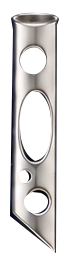
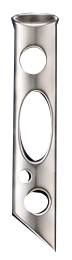
Refine tray photography and catalog review

Changed region(s): [[0.1389, 0.0615, 0.5556, 0.9231], [0.5556, 0.9231, 0.6944, 0.9538], [0.6944, 0.9538, 0.7778, 0.9846]]

diff --git a/components/admin/CatalogEditor.tsx b/components/admin/CatalogEditor.tsx
@@ -4,9 +4,10 @@ import { useEffect, useMemo, useRef, useState } from "react";
 import Image from "next/image";
 import { galleryRenders, isReferenceOnlyGalleryPhoto, type GalleryRender } from "@/lib/constants/gallery-renders";
 import { galleryTrayCutout } from "@/lib/constants/gallery-tray-cutouts";
-import { catalogCategories, resolveCatalogSelection } from "@/lib/constants/catalog";
+import { catalogCategories, normalizeSearch, resolveCatalogSelection } from "@/lib/constants/catalog";
 import type { CatalogProductInput } from "@/lib/catalog/product-input";
 import { toCatalogForm } from "@/lib/catalog/editor-form";
+import { isWithheldGalleryPhoto } from "@/lib/catalog/gallery-product-link";
 import { dossierFields, incompleteDossierFields, isDossierField, readDossierField, updateDossierField } from "@/lib/catalog/dossier-fields";
 import { appendCatalogPhotoView, draftCatalogFormFromPhoto, reviewCatalogPhotos } from "@/lib/catalog/photo-draft";
 import type { RoomPlacement } from "@/lib/catalog/room-placement";
@@ -21,6 +22,7 @@ const blank = (): CatalogProductInput => ({ slug: "", revision: 0, name: "", cat
 const fieldClass = "w-full rounded-md border border-silver bg-ivory px-3 py-2 text-sm text-graphite outline-none focus-visible:border-sapphire focus-visible:ring-2 focus-visible:ring-sapphire/30";
 const labelClass = "block text-sm leading-7 text-graphite";
 const number = new Intl.NumberFormat("fa-IR");
+const statuses = { published: "منتشرشده", review: "در بازبینی", archived: "بایگانی" } as const;
 
 function hasVisibleCutout(image: HTMLImageElement): boolean {
   const canvas = document.createElement("canvas");
@@ -49,6 +51,8 @@ export function CatalogEditor() {
   const [form, setForm] = useState<CatalogProductInput>(blank);
   const [selected, setSelected] = useState("");
   const [photoCategory, setPhotoCategory] = useState("");
+  const [catalogQuery, setCatalogQuery] = useState("");
+  const [catalogStatus, setCatalogStatus] = useState("");
   const [onlyIncompleteDossiers, setOnlyIncompleteDossiers] = useState(false);
   const [trayPreview, setTrayPreview] = useState<{ path: string; transparent: boolean } | null>(null);
   const [loading, setLoading] = useState(true);
@@ -72,7 +76,12 @@ export function CatalogEditor() {
   const savedRow = rows.find((item) => item.slug === selected);
   const dossierGaps = useMemo(() => new Map(rows.map((row) => [row.slug, incompleteDossierFields(row.details).length])), [rows]);
   const incompleteRows = rows.filter((row) => row.status !== "archived" && (dossierGaps.get(row.slug) ?? 0) > 0);
-  const visibleRows = onlyIncompleteDossiers ? incompleteRows : rows;
+  const queryTerms = normalizeSearch(catalogQuery).split(" ").filter(Boolean);
+  const visibleRows = (onlyIncompleteDossiers ? incompleteRows : rows).filter((row) => {
+    if (catalogStatus && row.status !== catalogStatus) return false;
+    const text = normalizeSearch(`${row.name} ${row.slug} ${row.category_label}`);
+    return queryTerms.every((term) => text.includes(term));
+  });
   const formGaps = incompleteDossierFields(form.details);
   const referenceCover = isReferenceOnlyGalleryPhoto(form.image_path);
   const trayPath = form.stand_image_path?.startsWith("/images/ornova/") && !isReferenceOnlyGalleryPhoto(form.stand_image_path) ? form.stand_image_path : null;
@@ -181,14 +190,26 @@ export function CatalogEditor() {
         <input type="checkbox" className="mt-1" checked={onlyIncompleteDossiers} onChange={(event) => setOnlyIncompleteDossiers(event.target.checked)} />
         فقط شناسنامههای در انتظار تکمیل ({number.format(incompleteRows.length)})
       </label>}
+      {catalogReadReady && <div className="mb-4 grid gap-2">
+        <label className={labelClass}>نام یا کد اثر
+          <input type="search" className={fieldClass} value={catalogQuery} onChange={(event) => setCatalogQuery(event.target.value)} />
+        </label>
+        <label className={labelClass}>وضعیت انتشار
+          <select className={fieldClass} value={catalogStatus} onChange={(event) => setCatalogStatus(event.target.value)}>
+            <option value="">همهٔ وضعیتها</option>
+            {Object.entries(statuses).map(([value, label]) => <option key={value} value={value}>{label}</option>)}
+          </select>
+        </label>
+      </div>}
       {loading ? <p role="status">در حال خواندن کاتالوگ…</p> : visibleRows.length === 0
-        ? <p className="text-sm">{onlyIncompleteDossiers ? "شناسنامهای در انتظار تکمیل نیست." : "هنوز اثری ثبت نشده است."}</p>
+        ? <p className="text-sm">{rows.length ? "اثری مطابق فیلترها پیدا نشد." : "هنوز اثری ثبت نشده است."}</p>
         : <ul className="space-y-2">{visibleRows.map((row) => {
           const gaps = dossierGaps.get(row.slug) ?? 0;
           return <li key={row.slug}>
             <button type="button" disabled={busy} onClick={() => select(row.slug)} aria-current={selected === row.slug ? "true" : undefined} className="w-full rounded-md border border-silver bg-ivory p-3 text-right text-sm hover:border-sapphire/50 aria-current:border-sapphire disabled:opacity-50">
               <strong className="block font-medium">{row.name}</strong>
-              <span className="mt-1 block text-xs text-graphite/65">{row.status === "published" ? "منتشرشده" : row.status === "archived" ? "بایگانی" : "در بازبینی"} · نسخهٔ {number.format(row.revision)}</span>
+              <span className="mt-1 block text-xs text-graphite/65">{statuses[row.status]} · نسخهٔ {number.format(row.revision)}</span>
+              {isWithheldGalleryPhoto(row.stand_image_path) && <span className="mt-1 block text-xs text-sapphire">عکس فعلی از سینی کنار گذاشته شده</span>}
               {gaps > 0 && row.status !== "archived" && <span className="mt-1 block text-xs text-sapphire">{number.format(gaps)} فیلد شناسنامه در انتظار تکمیل</span>}
             </button>
           </li>;

diff --git a/components/ornova/GalleryShowcaseConcept.module.css b/components/ornova/GalleryShowcaseConcept.module.css
@@ -103,8 +103,7 @@
   visibility: hidden;
   opacity: 0;
   padding: .45rem .65rem .4rem;
-  border: 1px solid #ab967b;
-  border-top-color: #f4e7ca;
+  border: 0;
   border-radius: 2px 3px 3px 2px;
   background: #efe4cc url("/images/ornova/gallery/review/ornova-dossier-cotton-paper-v1.webp") center / cover;
   box-shadow: 1px 3px 7px #43291655;
@@ -117,9 +116,7 @@
   transform: translateY(-50%);
 }
 .shelfTooltip small { color: #615746; font-size: .69rem; font-weight: 400; }
-.shelfTooltip::before, .shelfTooltip::after { position: absolute; left: 100%; width: .65rem; content: ""; }
-.shelfTooltip::before { top: 50%; border-top: 1px solid #896f51; }
-.shelfTooltip::after { inset-block: -.25rem; }
+.shelfTooltip::after { position: absolute; inset-block: -.25rem; left: 100%; width: .65rem; content: ""; }
 .shelf[data-tooltip-open] .shelfTooltip {
   visibility: visible;
   opacity: 1;
@@ -133,13 +130,18 @@
 .book { top: 73.5%; left: 84.5%; width: 10.5%; height: 5%; }
 .phone { top: 78%; left: 1.5%; width: 11%; height: 18%; }
 .register { top: 78%; left: 13%; width: 9%; height: 17%; }
-.roomView :is(.door, .book, .phone, .register)[data-guide-current] {
-  background-color: #fff1d01a;
-  box-shadow: 0 0 0 1px #fff0d3eb, 0 0 .7rem #ffd99299;
-}
-.roomView :is(.book, .phone, .register)[data-guide-current] { border-radius: .25rem; }
 .shelfTrigger[data-guide-current] .shelfSign { filter: brightness(1.22) drop-shadow(0 0 3px #fff0cc); }
-.door:focus-visible, .shelfTrigger:focus-visible, .book:focus-visible, .phone:focus-visible, .register:focus-visible { outline: 2px solid #355a82; outline-offset: -2px; }
+.roomView :is(.door, .shelfTrigger, .book, .phone, .register):focus-visible { outline: 2px solid transparent; }
+.roomView :is(.door, .shelfTrigger, .book, .phone, .register):focus-visible::after {
+  position: absolute;
+  inset: .18rem .18rem auto auto;
+  width: .45rem;
+  aspect-ratio: 1;
+  border-radius: 50%;
+  background: #fff3ce;
+  box-shadow: 0 0 0 2px #463125;
+  content: "";
+}
 .tableView { position: absolute; z-index: 1; inset: 0; isolation: isolate; visibility: hidden; opacity: 0; transition: opacity 420ms ease, visibility 420ms; }
 .scene[data-table-open] .tableView { visibility: visible; opacity: 1; transition: opacity 420ms ease 560ms; }
 .scene[data-shelf-approach] .tableView {
@@ -167,16 +169,15 @@
 }
 .tableDisplay, .tablePaper { display: grid; justify-items: center; min-width: 0; direction: rtl; }
 .tableDisplay { gap: .7rem; }
-.tableProduct { display: grid; width: 100%; min-height: 0; place-items: center; transform: translateY(clamp(-1.65rem, -2.5cqw, -.5rem)); }
-.archiveCutout { position: relative; width: min(92%, 22rem); height: clamp(5rem, 22cqw, 18.5rem); filter: drop-shadow(1px 2px 1px #040912b0) drop-shadow(3px 3px 4px #050a1857); animation: work-on-table 320ms ease-out both; }
-.archiveCutout img { object-fit: contain; }
-.catalogCutout[data-table-product="sepid-brooch"] img { transform: rotate(-90deg) scale(1.12); filter: none; }
+.tableProduct { display: grid; width: 100%; min-height: 0; place-items: center; }
+.archiveCutout, .catalogCutout { position: relative; filter: drop-shadow(0 1px 1px #050a1866); animation: work-on-table 320ms ease-out both; }
+.archiveCutout { width: min(92%, 22rem); height: clamp(5rem, 22cqw, 18.5rem); }
+.archiveCutout img, .catalogCutout img { object-fit: contain; pointer-events: none; }
 .archiveCutout[data-gallery-product-number="21"] img { transform: scale(.65); }
 .archiveCutout[data-gallery-product-number="22"] img { transform: scale(.86); }
-.catalogCutout { position: relative; width: min(94%, 22rem); height: clamp(5rem, 20cqw, 17rem); filter: drop-shadow(1px 2px 1px #040912b0) drop-shadow(3px 3px 4px #050a1857); animation: work-on-table 320ms ease-out both; }
-.catalogCutout img { object-fit: contain; filter: brightness(1.055); pointer-events: none; }
+.catalogCutout { width: min(94%, 22rem); height: clamp(5rem, 20cqw, 17rem); }
 .catalogCutout[data-table-product="lajvard-shab-ring"] { height: clamp(6.7rem, 25cqw, 21rem); }
-.catalogCutout[data-table-product="lajvard-shab-ring"] img { transform: rotate(-86deg); filter: brightness(1.025); }
+.catalogCutout[data-table-product="lajvard-shab-ring"] img { transform: rotate(-86deg); }
 @keyframes work-on-table {
   from { opacity: 0; }
   to { opacity: 1; }
@@ -346,7 +347,7 @@
     gap: .38rem;
   }
   .tableView .tableDisplay { display: block; min-height: 0; }
-  .tableView .tableProduct { height: 100%; grid-template-rows: minmax(0, 1fr); transform: none; }
+  .tableView .tableProduct { height: 100%; grid-template-rows: minmax(0, 1fr); }
   .tableView :is(.archiveCutout, .catalogCutout, .catalogCutout[data-table-product="lajvard-shab-ring"]) { width: min(100%, 15rem); height: min(100%, 9rem); }
   .tableView .tablePaper {
     align-self: start;
@@ -384,7 +385,6 @@
   .architecture { object-fit: fill; }
   .tableView .tableComposition { inset-block: 19% 27%; }
   .archiveCutout, .catalogCutout, .catalogCutout[data-table-product="lajvard-shab-ring"] { height: min(16cqw, 35svh); }
-  .tableProduct { transform: translateY(-.35rem); }
   .tableView .tablePaper { width: min(100%, 17.5rem); }
   .tableView .dossier { padding: clamp(.45rem, 2svh, .85rem); }
   .dossierHeader { margin-bottom: .25rem; }

diff --git a/lib/constants/gallery-room-samples.ts b/lib/constants/gallery-room-samples.ts
@@ -1,6 +1,6 @@
 import type { CatalogCategoryId } from "./catalog";
 import type { Product } from "./products";
-import { findGalleryProduct } from "../catalog/gallery-product-link";
+import { findGalleryProduct, isPublicGalleryProduct, isWithheldGalleryPhoto } from "../catalog/gallery-product-link";
 import { visibleGalleryRenders, type GalleryRender } from "./gallery-renders";
 import { galleryTrayCutout } from "./gallery-tray-cutouts";
 
@@ -32,7 +32,7 @@ const measuredBounds: Record<string, readonly [number, number, number, number]> 
 };
 
 const firstWork: Partial<Record<CatalogCategoryId, string>> = {
-  rings: "05", "brooches-pins": "01", earrings: "03",
+  rings: "05", "brooches-pins": "07", earrings: "03",
   "jewelry-sets": "40", pendants: "08", bracelets: "45",
 };
 
@@ -56,7 +56,7 @@ export type GalleryRoomSample = (typeof galleryRoomSamples)[number] & { productS
 export const galleryRoomSamplesByCategory = Object.fromEntries(
   (["rings", "brooches-pins", "earrings", "jewelry-sets", "pendants", "bracelets"] as const).map((categoryId) => [
     categoryId,
-    galleryRoomSamples.filter((sample) => sample.categoryId === categoryId)
+    galleryRoomSamples.filter((sample) => sample.categoryId === categoryId && !isWithheldGalleryPhoto(sample.src))
       .sort((a, b) => Number(b.number === firstWork[categoryId]) - Number(a.number === firstWork[categoryId])),
   ]),
 ) as Record<(typeof galleryRoomSamples)[number]["categoryId"], typeof galleryRoomSamples>;
@@ -69,7 +69,7 @@ export function roomSamplesWithCatalog(products: readonly Product[]): Record<str
   for (const product of [...products].sort((a, b) => a.slug.localeCompare(b.slug))) {
     const placement = product.roomPlacement;
     const samples = result[product.categoryId];
-    if (!samples || product.publicationStatus !== "published" || !product.galleryPlacementVerified || !placement
+    if (!samples || !isPublicGalleryProduct(product) || !placement
       || !product.standImage || placement.src !== product.standImage || samples.some((sample) => sample.src === placement.src)) continue;
     samples.push({ number: `catalog:${product.slug}`, title: product.name, categoryId: product.categoryId,
       src: placement.src, image: placement.image, bounds: placement.bounds, productSlug: product.slug });
@@ -109,6 +109,7 @@ export function galleryShowcaseEntries(products: readonly Product[]): GallerySho
 }
 
 export function findGalleryShowcasePhoto(entries: GalleryShowcaseEntries, photo: GalleryShowcasePhoto) {
+  if (isWithheldGalleryPhoto(photo.src)) return null;
   const sample = galleryRoomSamples.find((source) =>
     source.number === photo.number && source.src === photo.src && source.categoryId === photo.categoryId,
   );
@@ -123,7 +124,7 @@ export function trayVisibleShowcaseEntries(products: readonly Product[]) {
   const entries = galleryShowcaseEntries(products);
   for (const category of Object.keys(entries) as CatalogCategoryId[]) {
     entries[category] = entries[category]?.filter(({ product }) =>
-      !product || (product.galleryPlacementVerified === true && Boolean(product.standImage)),
+      !product || isPublicGalleryProduct(product),
     );
   }
   return entries;

diff --git a/components/ornova/VirtualGallery.tsx b/components/ornova/VirtualGallery.tsx
@@ -9,6 +9,7 @@ import type { StudioInquiryMode } from "@/components/studio/DesignStudio";
 import { GalleryShowcaseConcept, type GalleryShowcaseHandle } from "./GalleryShowcaseConcept";
 import { OrnovaSymbol } from "./OrnovaBrandMark";
 import { galleryRoomSamples, galleryRoomSamplesByCategory, type GalleryShowcasePhoto } from "@/lib/constants/gallery-room-samples";
+import { isPublicGalleryProduct } from "@/lib/catalog/gallery-product-link";
 import { findGalleryProduct } from "@/lib/catalog/gallery-product-link";
 import { buildMagazineIndex, emptyMagazineFilters, findMagazineWorks, type MagazineFilters } from "@/lib/catalog/magazine-index";
 import { catalogCategories, catalogFamilies } from "@/lib/constants/catalog";
@@ -31,9 +32,6 @@ const GalleryPhoneNotebook = dynamic(() => import("@/components/ornova/GalleryPh
 const DesignStudio = dynamic(() => import("@/components/studio/DesignStudio").then((mod) => mod.DesignStudio), { loading: LoadingLeaf });
 
 const number = new Intl.NumberFormat("fa-IR");
-function isPublicGalleryProduct(product: Product) {
-  return product.publicationStatus === "published" && product.galleryPlacementVerified === true && Boolean(product.standImage);
-}
 type GalleryPanel = "magazine" | "phone" | "contact" | "studio" | "about" | "account" | "library" | "basket" | "ring-builder" | "size-guide" | "guide";
 type Drawer = { kind: "category"; id: string } | { kind: "collection"; id: string } | { kind: GalleryPanel };
 type ProductTraySelection = {
@@ -152,7 +150,8 @@ export function VirtualGallery({ imageMode, galleryProducts: products, studioDra
     } catch { return null; }
   }, [contactContextSnapshot]);
   const contactSourceContext = studioContact?.mode === "transferred" ? "custom-design" : contactContext?.sourceContext;
-  const contactProduct = useMemo(() => products.find((item) => item.slug === contactContext?.productSlug && isPublicGalleryProduct(item)) ?? null, [contactContext?.productSlug, products]);
+  const contactProduct = useMemo(() => products.find((item) => item.slug === contactContext?.productSlug
+    && item.publicationStatus === "published" && item.galleryPlacementVerified && item.standImage) ?? null, [contactContext?.productSlug, products]);
   const archiveOrder = contactContext?.archivePhoto === undefined ? null : galleryRoomSamples.find((photo) => photo.number === contactContext.archivePhoto && photo.trayImage) ?? null;
   const invalidArchiveOrder = contactContext?.archivePhoto !== undefined && !archiveOrder;
   const contactProductSelectionKey = contactProduct && contactContext?.selection !== undefined

diff --git a/lib/catalog/gallery-product-link.ts b/lib/catalog/gallery-product-link.ts
@@ -9,13 +9,26 @@ type GalleryProduct = {
 
 type GalleryPhoto = { categoryId: string; src: string; trayImage?: string; productSlug?: string };
 
+const withheldGalleryPhotos = new Set([
+  "/images/ornova/gallery/products/goldan-khamoosh-stand-cutout-preview-v1.webp",
+  "/images/ornova/gallery/final-renders/01-2ae32afd.webp",
+  "/images/ornova/gallery/tray-cutouts/01-2ae32afd.webp",
+]);
+
+export function isWithheldGalleryPhoto(path: string | null | undefined) {
+  return Boolean(path && withheldGalleryPhotos.has(path));
+}
+
+export function isPublicGalleryProduct(product: Pick<GalleryProduct, "publicationStatus" | "galleryPlacementVerified" | "standImage">) {
+  return product.publicationStatus === "published" && product.galleryPlacementVerified === true
+    && Boolean(product.standImage) && !isWithheldGalleryPhoto(product.standImage);
+}
+
 /** Link a final stand photo only when one reviewed public product claims its exact file. */
 export function findGalleryProduct<T extends GalleryProduct>(products: readonly T[], photo: GalleryPhoto): T | null {
   const matches = products.filter((product) =>
     product.categoryId === photo.categoryId &&
-    product.publicationStatus === "published" &&
-    product.galleryPlacementVerified === true &&
-    Boolean(product.standImage) &&
+    isPublicGalleryProduct(product) &&
     (photo.productSlug
       ? product.slug === photo.productSlug && product.standImage === photo.src
       : product.standImage === photo.trayImage || product.gallery.some((image) => image.src === photo.src)),

diff --git a/lib/constants/gallery-tray-masks.ts b/lib/constants/gallery-tray-masks.ts
@@ -43,7 +43,7 @@ const masks: Record<string, TrayMask> = {
   "07": {
     src: "/images/ornova/gallery/final-renders/07-7d31d155.webp",
     viewBox: "301 428 72 260",
-    fills: ["M312 446 Q318 440 338 441 Q358 441 360 447 L358 453 L357 681 L311 644 L314 458Z M327 478 Q316 486 325 499 Q337 507 345 496 Q352 484 339 476 Q333 474 327 478Z M333 519 Q319 530 321 557 Q322 581 336 589 Q351 586 352 560 Q354 531 340 520Z M333 620 Q320 626 328 638 Q337 646 347 636 Q353 626 342 621Z M326 598 Q319 598 320 605 Q320 612 327 611 Q332 607 329 601Z"],
+    fills: ["M312 446 Q318 440 338 441 Q358 441 360 447 L358 453 L357 680 L313 643 L315.5 458Z M327 478 Q316 486 325 499 Q337 507 345 496 Q352 484 339 476 Q333 474 327 478Z M333 519 Q319 530 321 557 Q322 581 336 589 Q351 586 352 560 Q354 531 340 520Z M333 620 Q320 626 328 638 Q337 646 347 636 Q353 626 342 621Z M326 598 Q319 598 320 605 Q320 612 327 611 Q332 607 329 601Z"],
   },
   "08": {
     src: "/images/ornova/gallery/final-renders/08-3f570c5c.webp",

diff --git a/lib/constants/catalog.ts b/lib/constants/catalog.ts
@@ -152,7 +152,7 @@ export function catalogHref(categoryId?: unknown, subtypeId?: unknown, query?: s
   return `/shop${params.size ? `?${params}` : ""}`;
 }
 
-function normalizeSearch(value: string) {
+export function normalizeSearch(value: string) {
   return value.normalize("NFKC").replace(/ي/g, "ی").replace(/ك/g, "ک")
     .replace(/[\u064b-\u065f\u0670\u0640]/g, "").replace(/[\u200c\u200d\s]+/g, " ").trim().toLocaleLowerCase("fa-IR");
 }
